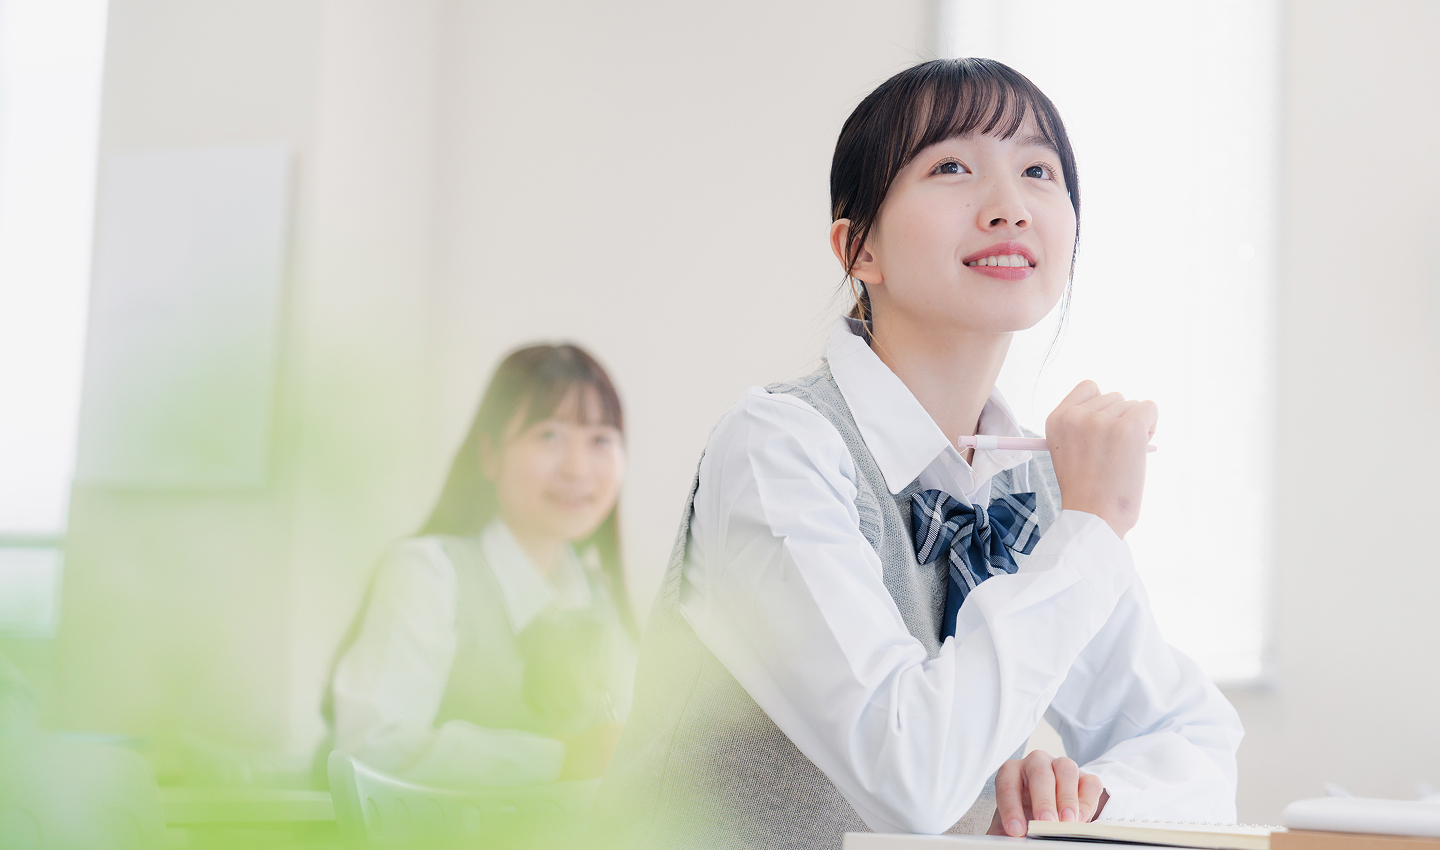
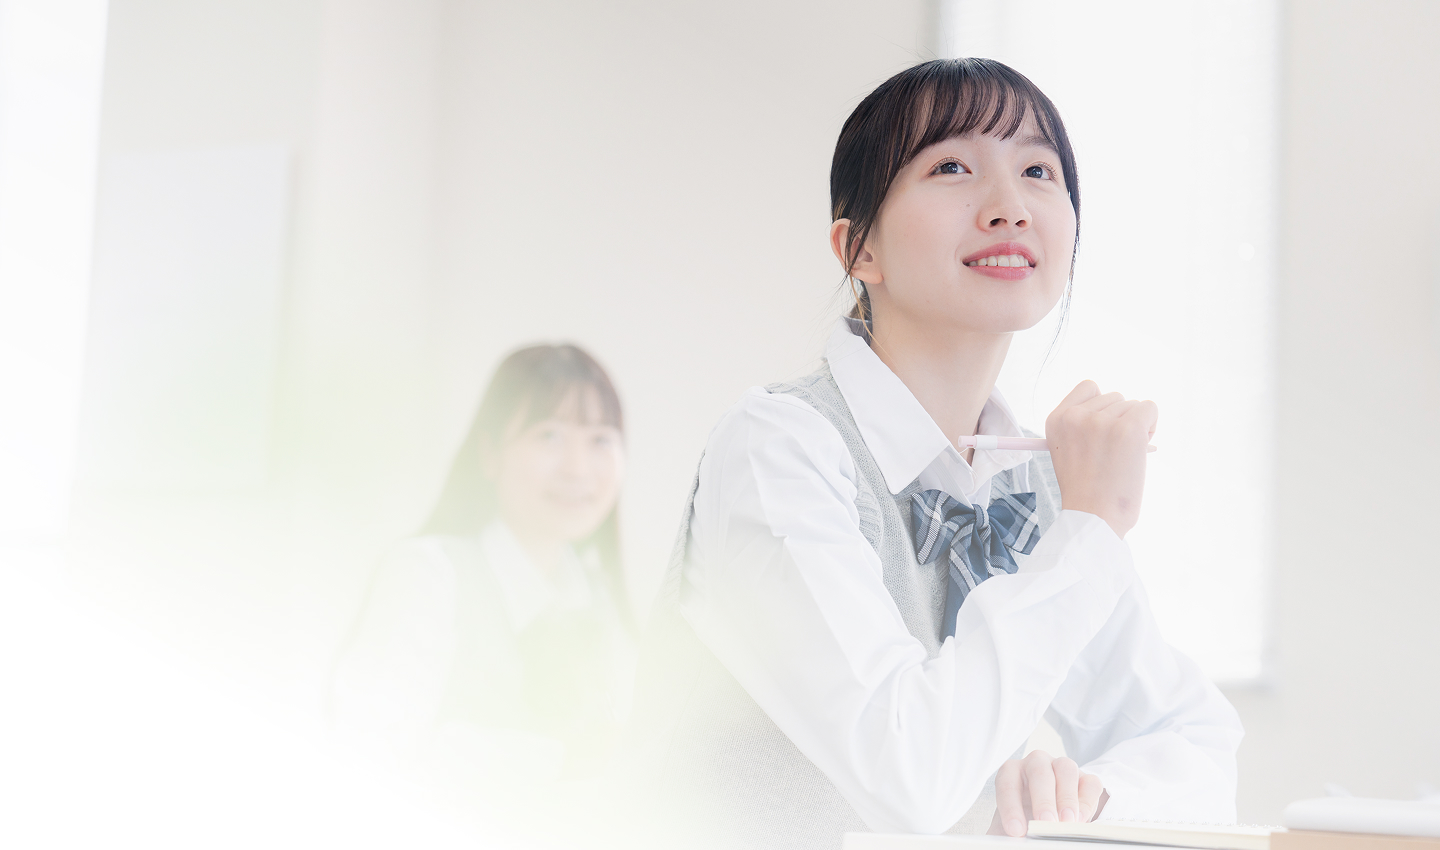
commit

diff --git a/css/style.css b/css/style.css
@@ -5,7 +5,6 @@ html {
 body {
     font-family: "Hiragino Kaku Gothic Pro", sans-serif;
     color: #444;
-    /* background-color: #EEE; */
 }
 
 .wrap {
@@ -230,75 +229,16 @@ PC
     }
 }
 
-
-/* ハンバーガーメニュー */
-.hamburger {
-    width: 50px;
-    position: fixed;
-    top: 30px;
-    right: 15px;
-    z-index: 99;
-    display: none;
-    transition-duration: .5s;
-
-    span {
-        width: 100%;
-        height: 2px;
-        background-color: #444;
-        position: relative;
-        transition: ease .4s;
-        display: block;
-    }
-
-    .menu-close {
-        display: none;
-    }
-}
-
-.hamburger span:nth-child(1) {
-    top: 0;
-}
-
-.hamburger span:nth-child(2) {
-    margin: 10px auto;
-}
-
-.hamburger span:nth-child(3) {
-    top: 0;
-}
-
-/* ハンバーガーメニュークリック後のスタイル */
-.hamburger.active img {
-    display: block;
-    width: 30px;
-    margin: 0 auto;
-}
-
-.hamburger.active .menu-open {
+.arrow-back {
     display: none;
 }
 
-.hamburger.active .menu-close {
-    display: block;
-    color: var(--blue);
-    text-align: center;
-}
-
-.hamburger.active span:nth-child(1) {
+.menu-close {
     display: none;
 }
 
-.hamburger.active span:nth-child(2) {
+.navigation {
     display: none;
-}
-
-.hamburger.active span:nth-child(3) {
-    display: none;
-}
-
-/* ハンバーガーメニュークリック後のスタイル */
-.header-nav.active {
-    transform: translate(0);
 }
 
 
@@ -309,7 +249,7 @@ PC
     background-image: url(/images/fv-back.jpg);
     background-size: cover;
     background-repeat: no-repeat;
-    background-position: center;
+    background-position: 50% 10%;
     margin-top: 90px;
     height: 850px;
 }
@@ -322,7 +262,7 @@ PC
     width: 100%;
     height: 100%;
     max-width: 1280px;
-    margin: auto;
+    margin: 0 auto;
     position: relative;
 }
 
@@ -330,6 +270,7 @@ PC
     position: absolute;
     top: 40%;
     left: 0%;
+    margin-left: 15px;
     transform: translateY(-40%);
     -webkit-transform: translateY(-40%);
     -ms-transform: translateY(-40%);
@@ -567,7 +508,7 @@ PC
     }
 
     img {
-        width: 100%;
+        width: 80%;
     }
 }
 
@@ -768,6 +709,153 @@ PC
         display: block;
     }
 
+
+
+    /* ハンバーガーメニュー */
+    .hamburger {
+        width: 50px;
+        position: fixed;
+        top: 30px;
+
+        right: 15px;
+        z-index: 99;
+        transition-duration: .5s;
+
+        span {
+            width: 100%;
+            height: 2px;
+            background-color: #444;
+            position: relative;
+            transition: ease .4s;
+            display: block;
+        }
+
+        .menu-close {
+            display: none;
+        }
+    }
+
+    .hamburger span:nth-child(1) {
+        top: 0;
+    }
+
+    .hamburger span:nth-child(2) {
+        margin: 10px auto;
+    }
+
+    .hamburger span:nth-child(3) {
+        top: 0;
+    }
+
+    /* ハンバーガーメニュークリック後のスタイル */
+    .hamburger.active {
+        top: 20px;
+    }
+
+    .hamburger.active img {
+        display: block;
+        width: 30px;
+        margin: 0 auto;
+    }
+
+    .hamburger.active .menu-close {
+        display: block;
+        color: var(--blue);
+        text-align: center;
+    }
+
+    .hamburger.active span:nth-child(1) {
+        display: none;
+    }
+
+    .hamburger.active span:nth-child(2) {
+        display: none;
+    }
+
+    .hamburger.active span:nth-child(3) {
+        display: none;
+    }
+
+    /* ハンバーガーメニュークリック後のスタイル */
+    .nav-sp.active {
+        transform: translate(0);
+    }
+
+
+    /* ナビゲーションメニュー展開 */
+    .navigation {
+        display: block;
+    }
+
+    .navigation-container {
+        position: fixed;
+        right: 0;
+        display: block;
+        background-color: var(--white);
+        padding-top: 20px;
+        width: 100%;
+        height: 100vh;
+        z-index: 90;
+    }
+
+    /* アニメーション前のメニューの状態 */
+    .navigation-container{
+        pointer-events: none;
+        opacity: 0;
+        transform-origin: top left;
+        transform: rotateZ(-90deg);
+        transition: all .3s ease;
+    }
+
+    /* アニメーション後のメニューの状態 */
+    .navigation-container.active{
+        pointer-events: auto;
+        opacity: 1;
+        transform: rotateZ(0deg);
+    }
+
+    .nav-list-sp {
+        font-weight: 600;
+        text-align: center;
+
+        .nav-item {
+            width: 100%;
+            margin: 0 auto 30px;
+
+            a {
+                font-size: 18px;
+                transition-duration: .4s;
+                position: relative;
+
+                &::after {
+                    position: absolute;
+                    left: 0;
+                    content: '';
+                    background-color: #444;
+                    width: 100%;
+                    height: 2px;
+                    bottom: -10px;
+                    transform: scale(0, 1);
+                    transform-origin: center top;
+                    transition: transform 0.3s;
+                }
+
+                &:hover::after {
+                    transform: scale(1, 1);
+                }
+            }
+        }
+    }
+
+    /* ソーシャルメディアリンク */
+    .nav-sns {
+        display: flex;
+        gap: 10px;
+        justify-content: center;
+        margin-top: 15px;
+    }
+
+
 }
 
 
@@ -851,8 +939,8 @@ SP
 
     /* -----------------------------------------ファーストビュー */
     .first-view {
-        background-image: url(/images/fv-back-sp.jpg);
-        background-size: contain;
+        background-image: url(/images/fv-back.jpg);
+        background-size: cover;
         background-position: 70% 50%;
         height: 632px;
         margin-bottom: 50px;
@@ -864,6 +952,7 @@ SP
         transform: translateY(-90%);
         -webkit-transform: translateY(-90%);
         -ms-transform: translateY(-90%);
+        margin-left: 0;
 
         h2 {
             font-size: 30px;
@@ -976,6 +1065,10 @@ SP
             padding: 10px 15px;
             bottom: -25px;
             right: -15px;
+        }
+
+        img {
+            width: 100%;
         }
     }
 

diff --git a/index.html b/index.html
@@ -6,6 +6,7 @@
     <title>日進学院</title>
     <link rel="stylesheet" href="./css/reset.css">
     <link rel="stylesheet" href="./css/style.css">
+    <script src="https://ajax.googleapis.com/ajax/libs/jquery/3.7.1/jquery.min.js"></script>
 </head>
 
 <body>
@@ -37,19 +38,21 @@
                             <p>無料体験に申し込む</p>
                             <img class="cta-arrow" src="images/cta-arrow.png" alt="">
                         </a>
-                        <div class="hamburger" id="js-hamburger">
+                        <button class="hamburger" id="js-hamburger">
                             <span></span>
                             <span></span>
                             <span></span>
-                            <img src="images/arrow-back-sp.png" alt="">
+                            <img class="arrow-back" src="images/arrow-back.png" alt="">
                             <p class="menu-close">close</p>
-                        </div>
+                        </button>
                     </div>
                 </div>
             </div>
+        </header>
 
+        <main>
             <!-- ナビゲーション -->
-            <!-- <section class="navigation">
+            <section class="navigation">
                 <div class="navigation-container" id="js-nav">
                     <nav class="nav-sp">
                         <ul class="nav-list-sp">
@@ -66,10 +69,8 @@
                         <a href=""><img src="images/nav-icon-x.png" alt=""></a>
                     </div>
                 </div>
-            </section> -->
-        </header>
+            </section>
 
-        <main>
             <!-- ファーストビュー -->
             <section class="first-view">
                 <div class="first-view-wrapper">

diff --git a/js/main.js b/js/main.js
@@ -1,12 +1,12 @@
 $(function () {
   // ハンバーガーボタンクリックで実行
-        $("#js-hamburger").click(function () {
+    $("#js-hamburger").click(function () {
         $(this).toggleClass("active");
         $("#js-nav").toggleClass("active");
     });
 
     // メニュー項目のクリック時にメニューを閉じる
-        $(".nav-item a").click(function () {
+    $(".nav-item a").click(function () {
         $("#js-hamburger").removeClass("active");
         $("#js-nav").removeClass("active");
     });
